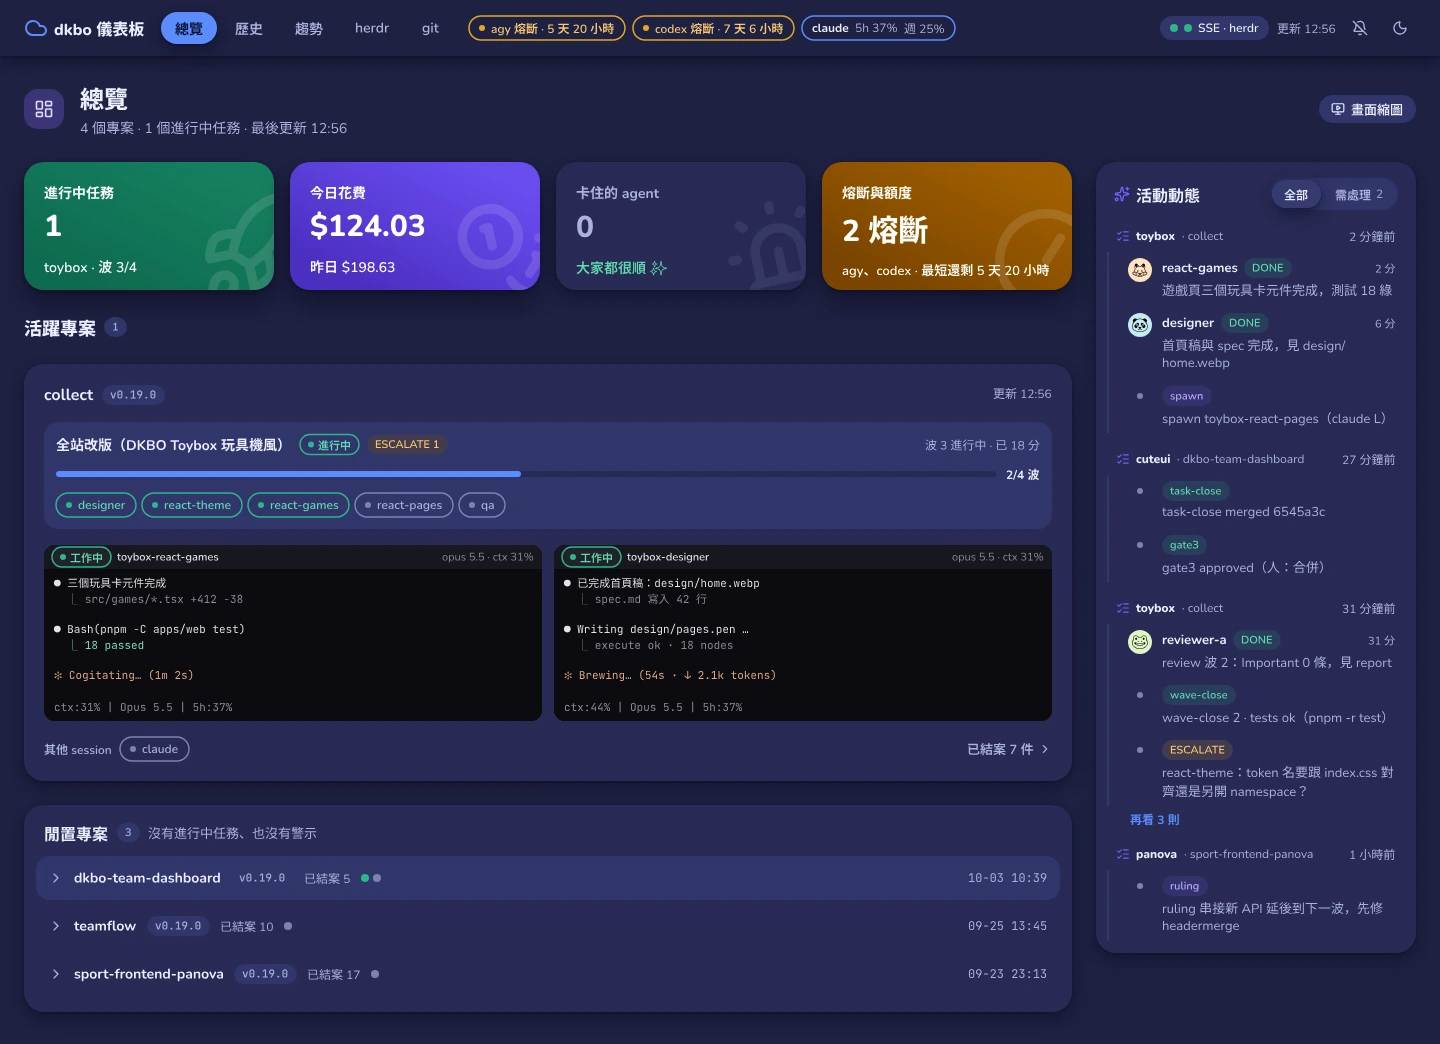
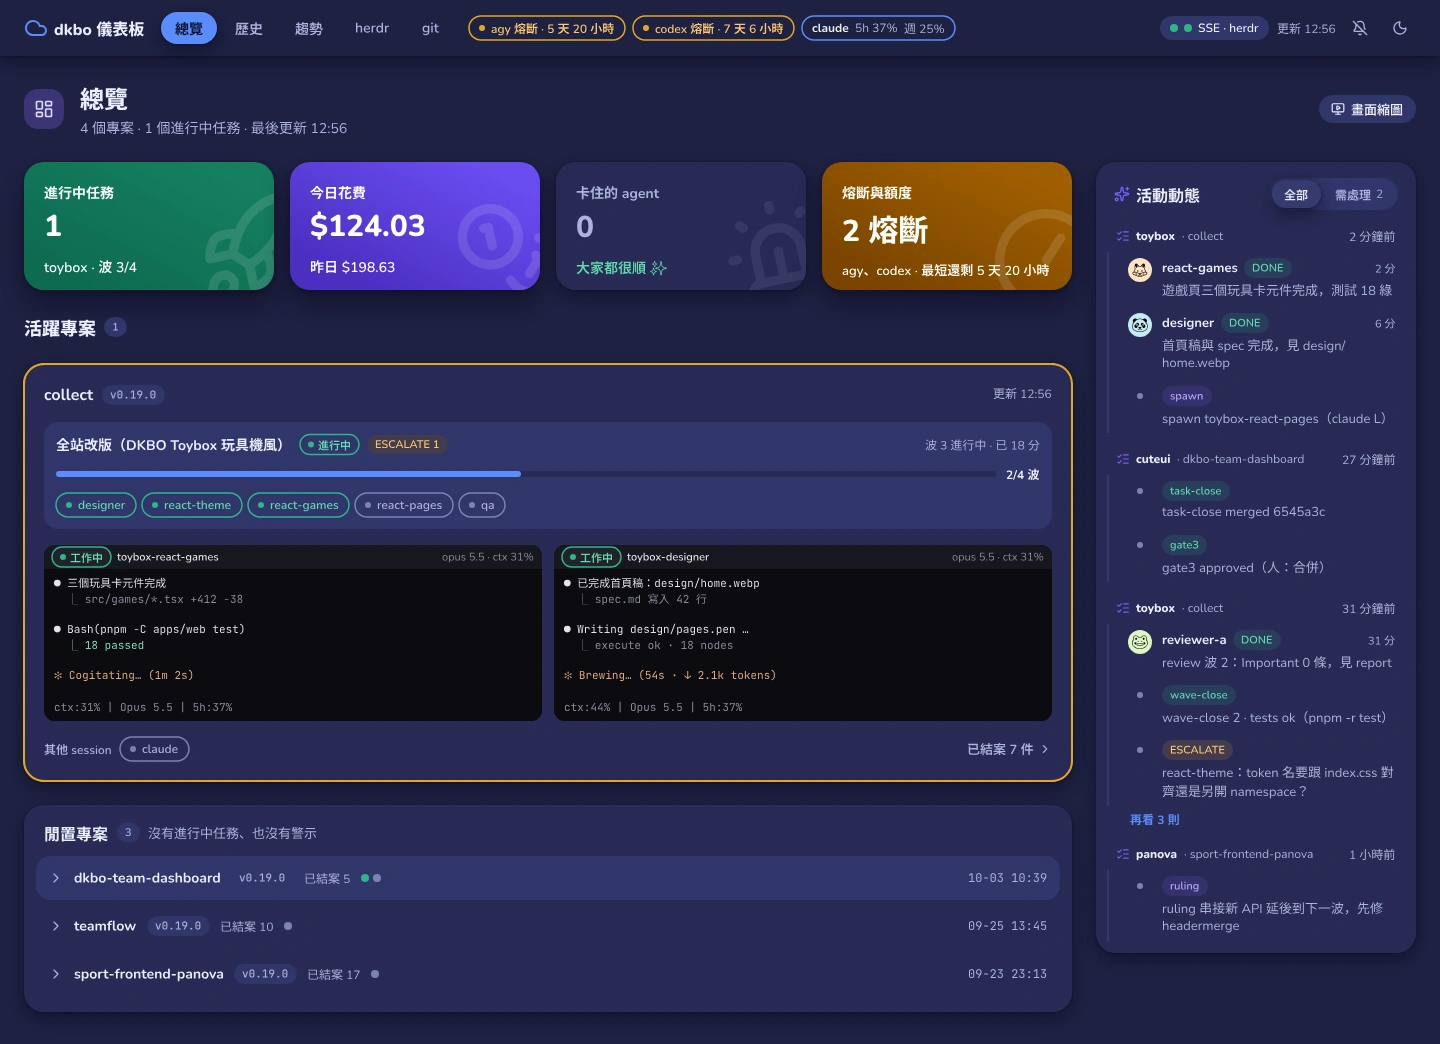
docs(design): unify 13 題定案寫回 DESIGN-SYSTEM.md，open-questions 改 decisions.md

Changed region(s): [[0.0312, 0.7356, 0.75, 0.7663], [0.0312, 0.3372, 0.75, 0.3678]]

diff --git a/design/unify/.src/p1-overview.js b/design/unify/.src/p1-overview.js
@@ -9,7 +9,7 @@ tile(s,"brand","coins","今日花費","$124.03",["昨日 $198.63"]);
 if(blocked)tile(s,"danger","siren","卡住的 agent",String(blocked),["react-games（collect）"]);else tile(s,"quiet","siren","卡住的 agent","0",[["大家都很順 ✨","$status-ok-fg"]]);
 tile(s,"warn","gauge","熔斷與額度","2 熔斷",["agy、codex · 最短還剩 5 天 20 小時"],{fs:13});
 const sec=row(main,{name:"SectionTitle",gap:8});tx(sec,"活躍專案",{fontSize:18,fontWeight:"800"});tag(sec,"1");
-const pc=card(main,{name:"ProjectCard collect",stroke:blocked?"$status-danger":undefined,strokeWidth:blocked?2:undefined});
+const pc=card(main,{name:"ProjectCard collect",stroke:blocked?"$status-danger":"$status-warn",strokeWidth:2});
 const a=cardHead(pc,"collect",null,{after:t=>{tag(t,"v0.19.0","neutral",{mono:true})}});tx(a,"更新 12:56",{fontSize:12,fill:"$muted-foreground"});
 taskRow(pc,{name:"全站改版（DKBO Toybox 玩具機風）",alert:!!blocked});
 const th=row(pc,{name:"PaneThumbs",width:"fill_container",gap:12,alignItems:"start"});

diff --git a/design/unify/decisions.md b/design/unify/decisions.md
@@ -1,0 +1,57 @@
+# 設計定案（2026-10-04）
+
+13 題已由人裁決（Q1–Q12 照原建議，另加 Q13）。[DESIGN-SYSTEM.md](DESIGN-SYSTEM.md) 已照定案寫成確定規格；稿也照定案畫。
+
+---
+
+### Q1 總覽要不要加第四張摘要卡「熔斷與額度」？
+**定案：加。** 四張卡 `grid-cols-2 lg:grid-cols-4`；有 kind 熔斷或任一額度 ≥ 80% 時琥珀漸層（列 kind 與剩餘時間），否則 quiet（「額度都健康 · 最高 claude 5h 37%」）。
+理由：熔斷是降級（琥珀）不該跟卡住搶紅色，但值得在總覽被看見，不能只藏在 TopBar 小膠囊。
+
+### Q2 「進行中任務」卡的顏色
+**定案：照狀態規則。** > 0 綠漸層（`grad-ok`），0 收成 quiet；`grad-blue` 保留不用。
+理由：摘要卡的顏色一律講狀態，正在跑＝綠。
+
+### Q3 內容頁容器寬
+**定案：統一 1536（`max-w-page`）。** 總覽、任務、歷史、趨勢與 TopBar 內容共用。
+理由：總覽要放活動欄、任務成員表與歷史表欄多，1280 會讓專案卡無法兩欄。
+
+### Q4 工具頁（herdr、git）要不要卡片化窗格？
+**定案：卡片化。** 四周與窗格間 12px `tool-gutter`，窗格是圓角卡＋陰影。
+理由：跟內容頁同一種質感；終端少約 24px 寬高可接受。
+
+### Q5 控制件的圓角
+**定案：按鈕、SegmentedControl、Tag、Pill `rounded-full`；輸入框／Select `rounded-lg`。**
+理由：膠囊最可愛，但日期輸入在膠囊裡兩端會擠到原生圖示。
+
+### Q6 活動欄頂部要不要加「全部｜需處理」切換？
+**定案：加。** SegmentedControl sm，「需處理」只留 ESCALATE、BUG、BLOCKED、LIMIT、TIMEOUT、STOP；純前端過濾、不改 API。
+理由：一天 50+ 則活動時能快速只看要處理的事。
+
+### Q7 歷史表三欄要不要合成一欄「審查」？
+**定案：合併。** 顯示 `9/6 · m5 · r1`，hover 出完整說明；表格 11 欄降到 9 欄、列高 44。儲存格 testid `col-review`，格內 span 沿用 `col-rulings`／`col-minors`／`col-rereviews`，測試斷言改新格式並列在 report。
+理由：1440 下不必橫捲，資訊密度仍足夠。
+
+### Q8 歷史頁「dev vs 審查」長條圖要不要限筆數？
+**定案：預設最近 15 件**，ChartCard 右上「顯示全部 N 件」切換。
+理由：全畫 39 件圖高約 1150px，會把表格推到第二屏之後。
+
+### Q9 總覽縮圖策略
+**定案：只畫「工作中／卡住」pane 的縮圖**，寬跟卡片（`grid-cols-1 sm:grid-cols-2`）、11px、最後 10 行；閒置 pane 只留 StatusPill，hover 照舊出 PaneHover。
+理由：縮圖只對正在動或卡住的 pane 有用，閒置 pane 全畫只會把頁面拉長。
+
+### Q10 閒置專案的判定
+**定案：閒置＝沒有 running／planning 任務、沒有 blocked agent、沒有錯誤／過時。** 閒置專案收進「閒置專案」卡，每專案一列。
+理由：只看任務會把有錯誤的專案收起來，錯誤就被藏住了。
+
+### Q11 已結案任務、agent `done` 的顏色
+**定案：已結案任務＝灰＋✓（idle）；agent 完成＝綠＋✓（ok）。**
+理由：綠只留給「正在動／剛成功」，歷史表一整片綠會稀釋「工作中」的訊號。
+
+### Q12 TopBar 額度膠囊的門檻
+**定案：任一值 ≥ 80% 變琥珀；不會變紅。**
+理由：額度用完＝熔斷＝降級，不是要人立刻處理的事。
+
+### Q13 ESCALATE 的顏色
+**定案：一律 warn。** 訊息、計數 Tag、活動 type、專案卡外框都是琥珀；danger 只留給 blocked、BUG、STOP、測試失敗、git 衝突、頁面載入失敗。
+理由：ESCALATE 是交給領導處理的事，紅色只給要人立刻處理、不處理就停住的事。

diff --git a/design/unify/README.md b/design/unify/README.md
@@ -11,13 +11,13 @@
 |---|---|
 | [`DESIGN-SYSTEM.md`](DESIGN-SYSTEM.md) | **Design System Spec**：How to use（CSS variables、Tailwind v4 @theme、index.css 改動與落地順序）→ 1 Color Tokens（含[狀態色規則](DESIGN-SYSTEM.md#14-狀態色使用規則)）→ 2 Typography → 3 Spacing／圓角／Border → 4 Desktop Grid 與 Layout（含[兩種頁面骨架與各頁欄格](DESIGN-SYSTEM.md#4-desktop-grid-與-layout-結構)）→ 5 元件清單與組合 → 6 每個元件的尺寸、padding、文字層級與狀態 |
 | [`tokens.json`](tokens.json) | DESIGN-SYSTEM 的機器可讀版（名字與值一致） |
-| [`open-questions.md`](open-questions.md) | 要人裁決的選擇題，每題附建議；規格照 ★ 寫 |
+| [`decisions.md`](decisions.md) | 已定案的 13 題設計題（題目＋定案＋理由）；DESIGN-SYSTEM 照定案寫 |
 | `page-*.webp` | 1440 寬設計稿：overview（亮＋暗）、task、history、trends、herdr、git；另 overview-390 |
 | `unify.pen` | 所有稿的原始檔（pen.dev），frame 名與 webp 同名 |
 | `.src/` | 產生 `unify.pen` 與 webp 的 pen 腳本（見文末「重畫稿」） |
 
 > 稿上的資料是照 10/04 實機（四個專案、cuteui 已結案）改寫的示意值，不是規格。
-> 主題分配：總覽亮暗各一張（亮版示範「卡住 1」的 danger 卡、暗版示範 0 值收斂的 quiet 卡）；任務、歷史、git 為亮色，趨勢、herdr 為暗色。另一個主題只換 token，版面相同。
+> 主題分配：總覽亮暗各一張（亮版示範「卡住 1」的 danger 卡、暗版示範 0 值收斂的 quiet 卡，以及只有 ESCALATE、沒有 blocked 的專案卡用 `ring-alert-warn` 琥珀框）；任務、歷史、git 為亮色，趨勢、herdr 為暗色。另一個主題只換 token，版面相同。
 > 字型：pen 沒有 Huninn，稿上中文是系統黑體 fallback，Latin 為 Nunito；實作照 index.css 的 Nunito＋Huninn。
 > **稿與 DESIGN-SYSTEM.md 衝突時以 DESIGN-SYSTEM.md 為準。**
 
@@ -77,8 +77,8 @@
 ### 2.3 歷史（`page-history.webp`）
 
 - 篩選移到 PageHeader 工具列。
-- 圖表：dev vs 審查圖預設只畫**最近 15 件**，ChartCard 右上「顯示全部 39 件」（open-questions Q8）。
-- 表格「太密」修正：列高 44（`h-11`）、儲存格 `px-3`、表頭 `h-10 text-xs font-bold text-muted-foreground`、數字欄 `tabular-nums`、0 值灰；專案欄改成 Tag；「裁定/自主、minor、審查複看」三欄合成一欄「審查」：`9/6 · m5 · r1`（裁定/自主 · minor · 重審；表頭 Tooltip 解釋；open-questions Q7）。表格預設顯示最近 10 件，底部「再顯示 30 件」。
+- 圖表：dev vs 審查圖預設只畫**最近 15 件**，ChartCard 右上「顯示全部 39 件」（decisions Q8）。
+- 表格「太密」修正：列高 44（`h-11`）、儲存格 `px-3`、表頭 `h-10 text-xs font-bold text-muted-foreground`、數字欄 `tabular-nums`、0 值灰；專案欄改成 Tag；「裁定/自主、minor、審查複看」三欄合成一欄「審查」：`9/6 · m5 · r1`（裁定/自主 · minor · 重審；表頭 Tooltip 解釋；decisions Q7）。表格預設顯示最近 10 件，底部「再顯示 30 件」。
 
 ### 2.4 趨勢（`page-trends.webp`）
 
